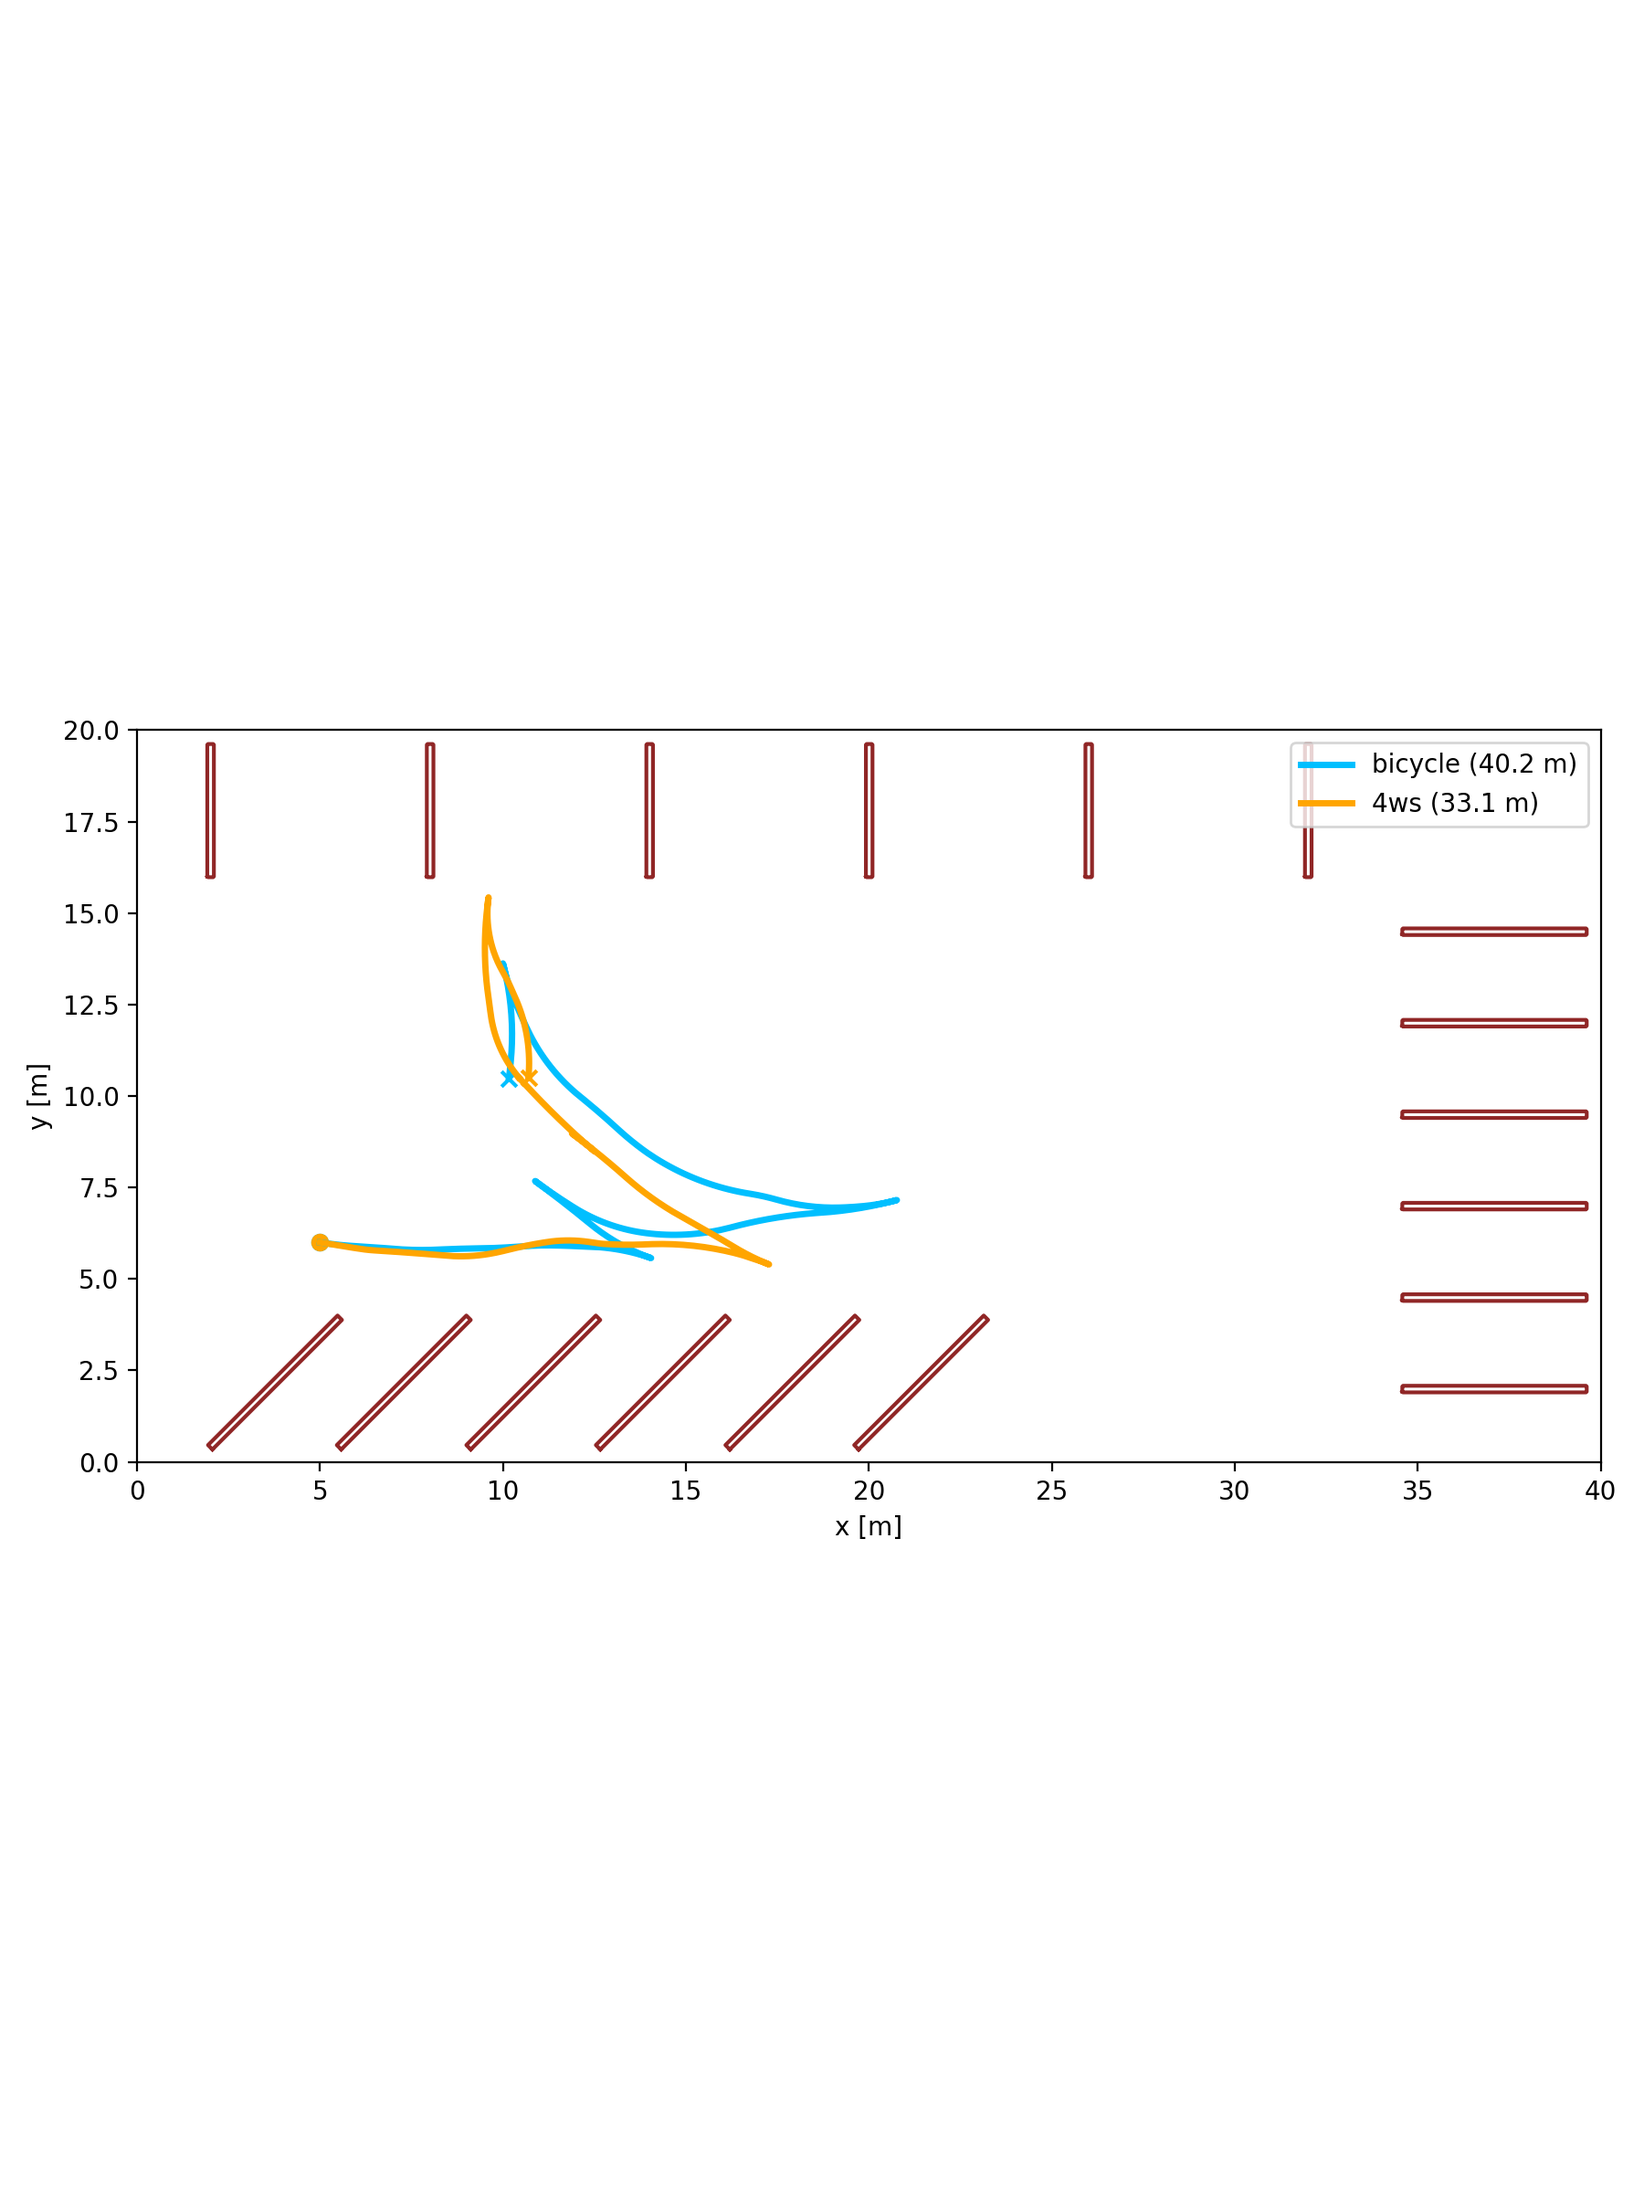
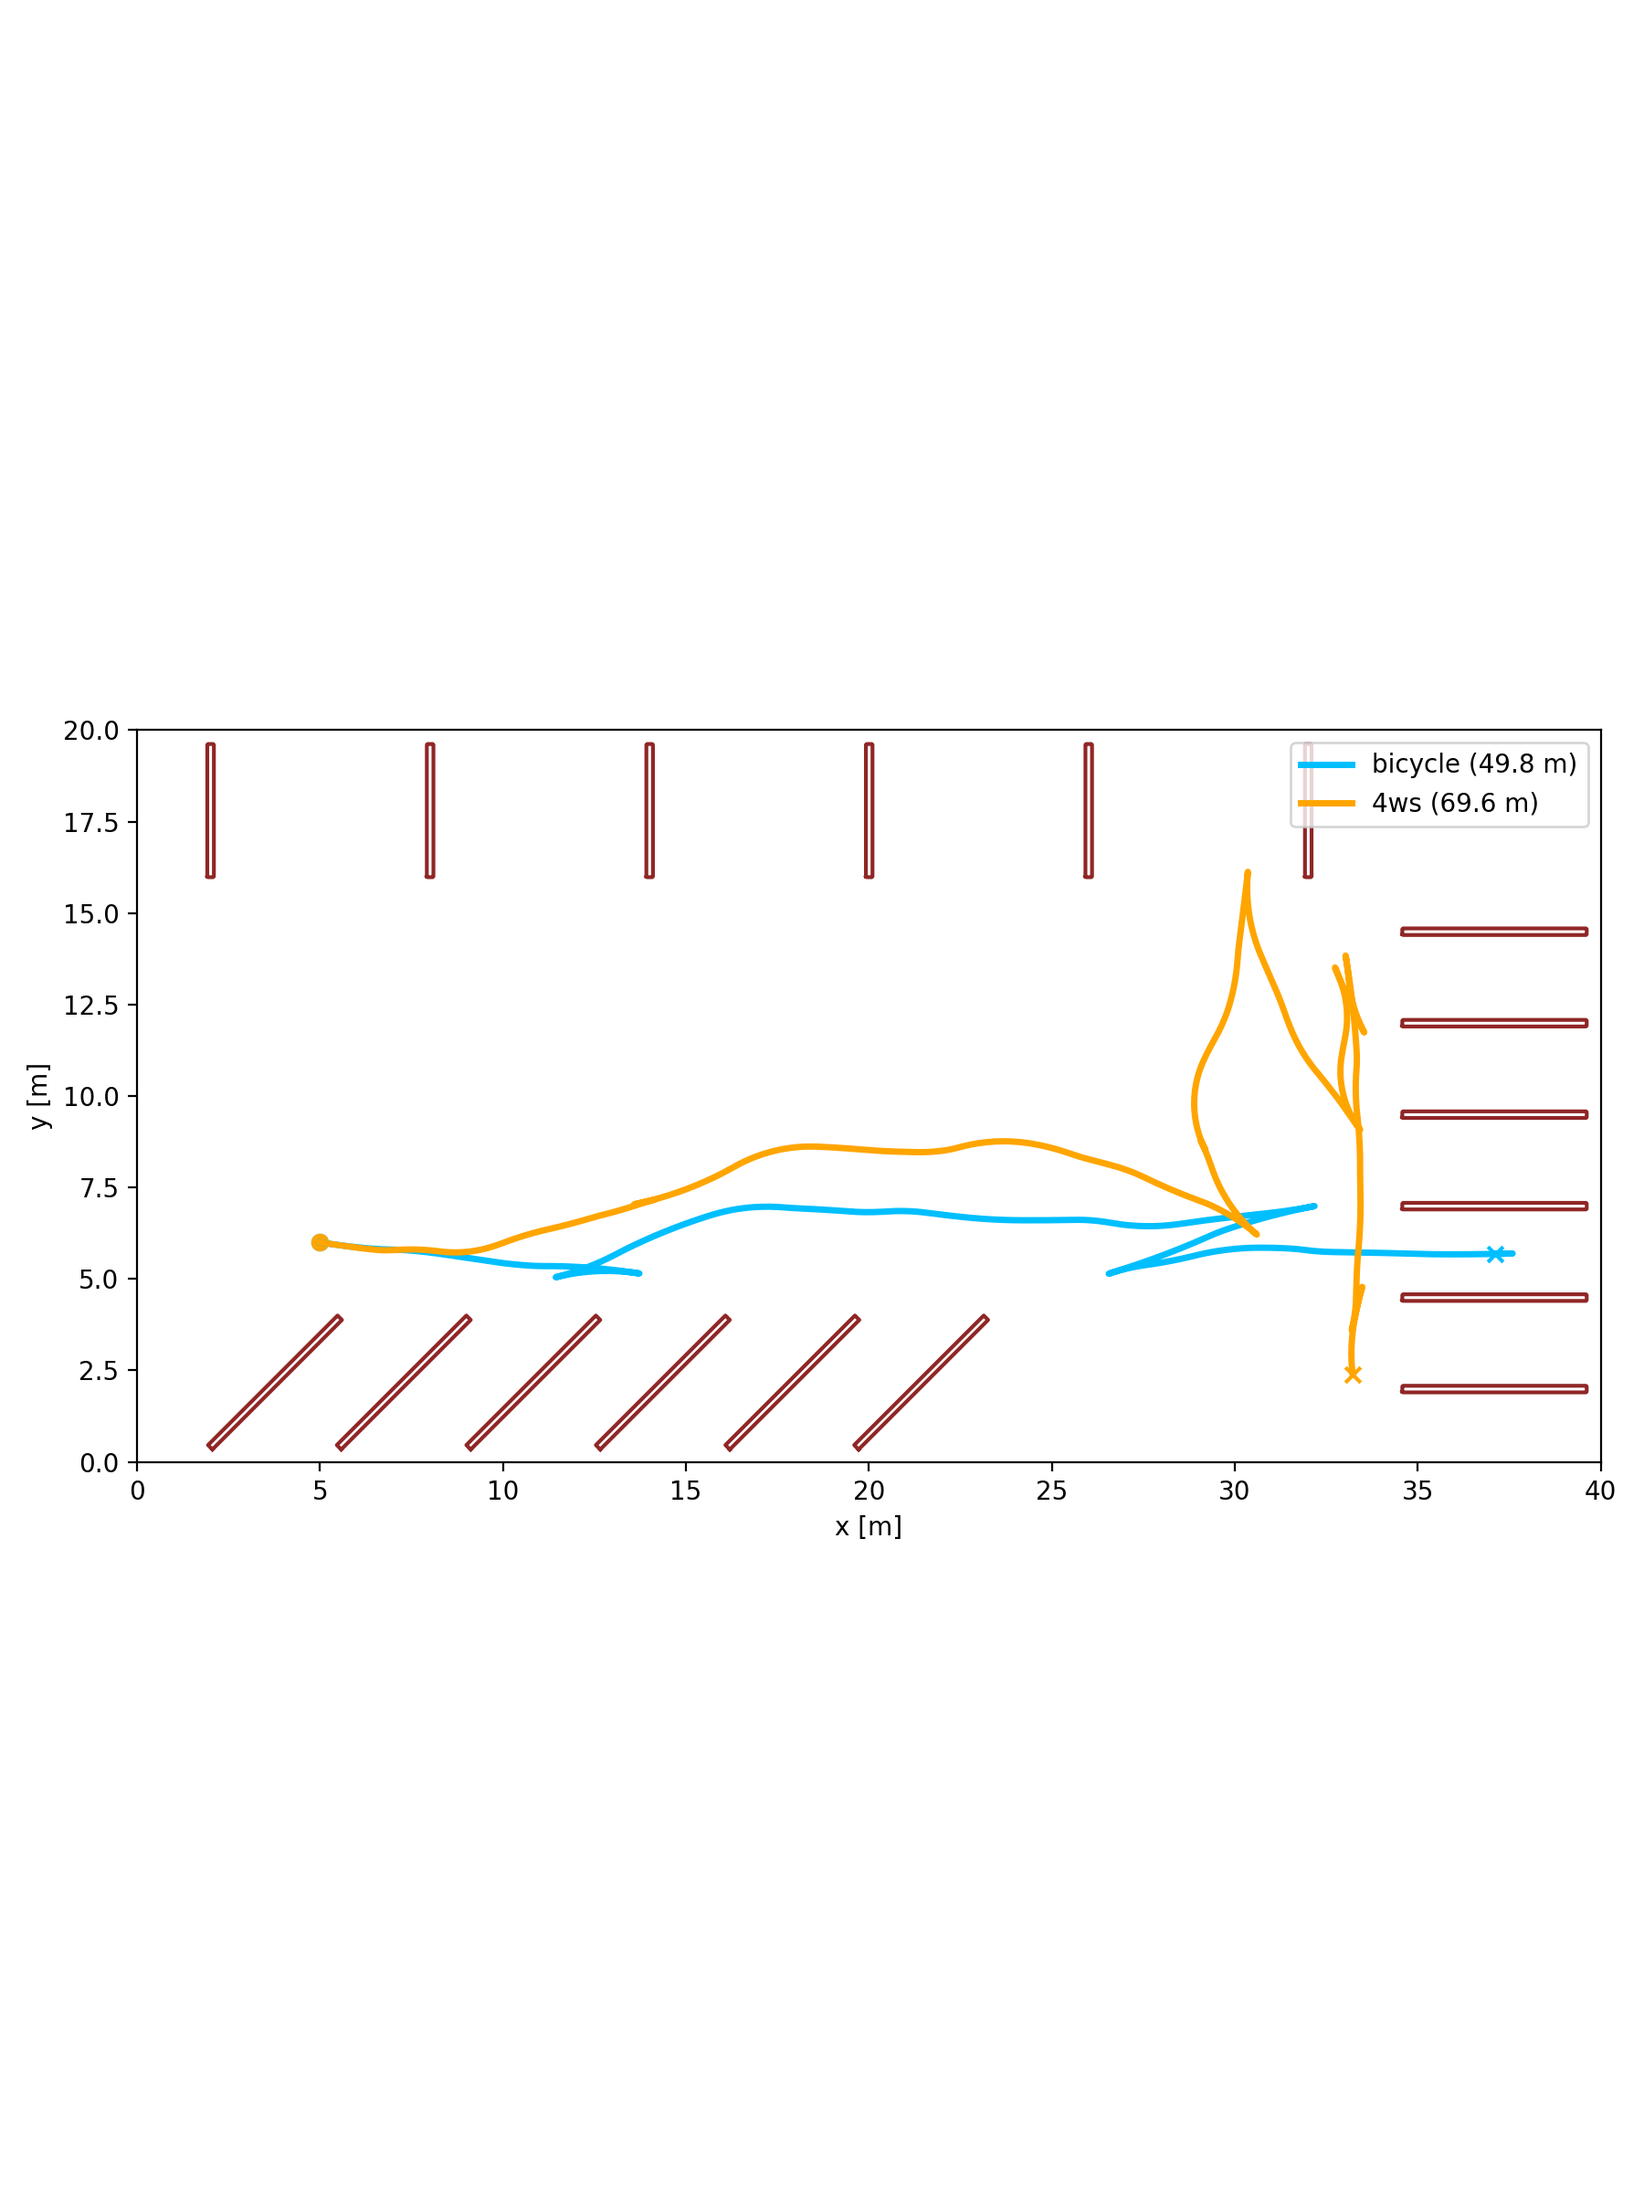
Adjusted the goal. TODO: the cars on bitmap as the obstacles, lines not necessarly. I started to work on MPC model

diff --git a/src/parking/mpc.py b/src/parking/mpc.py
@@ -1,1 +1,168 @@
 #file for mpc planner if was to be implemented
+
+import do_mpc
+import re
+import casadi as ca
+import json
+
+class MPCModel:
+    def __init__(self):
+        self.optimal_path = self.track.optimal_path
+
+
+        
+        self.width = 1.0
+        self.model = self.create_model()
+        self.model.setup()
+
+    def remove_comments(self, json_str):
+        # Remove single-line comments
+        json_str = re.sub(r'//.*', '', json_str)
+        # Remove multi-line comments
+        json_str = re.sub(r'/\*.*?\*/', '', json_str, flags=re.DOTALL)
+        return json_str
+    
+    def load_params(self, path):
+        """Load vehicle data from JSON file."""
+        with open(path, 'r') as f:
+            json_str = f.read()
+            json_str_clean = self.remove_comments(json_str)
+            data = json.loads(json_str_clean)
+            self.rotational_inertia = data["rotational_inertia"]
+            self.name = data["name"]
+            self.mass = data["mass"]
+            self.length_f = data["length_f"]
+            self.length_r = data["length_r"]
+            self.width = data["width"]
+
+            self.B_f = data["frontTire"]["B_f"]
+            self.C_f = data["frontTire"]["C_f"]
+            
+            self.B_r = data["rearTire"]["B_r"]
+            self.C_r = data["rearTire"]["C_r"]
+
+            self.C_m = data["control"]["C_m"]
+            self.Cr_0 = data["Cr_0"]
+            self.Cr_2 = data["Cr_2"]
+            self.ptv = data["ptv"]
+
+    def k(self, s):
+        return self.optimal_path.find_curvature_at_s(s)
+
+    
+    def get_lateral_constraint(self, s, n, mu):
+        length = self.length_f + self.length_r
+        width = self.width
+
+        NL = self.track.find_dist_to_band_symb(s, "left")
+        NR = self.track.find_dist_to_band_symb(s, "right")
+        
+        left_constraint = n - length * 0.5 * ca.sin(ca.sign(mu) * mu) + width * 0.5 * ca.cos(mu) - NL
+        right_constraint = - n + length * 0.5 * ca.sin(ca.sign(mu) * mu) + width * 0.5 * ca.cos(mu) - NR
+
+        # TODO what are these for?
+        # left_constraint_trunc = ca.if_else(left_constraint > NL, left_constraint - NL, 0.0)
+        # right_constraint_trunc = ca.if_else(right_constraint > NR, right_constraint - NR, 0.0)
+
+        return left_constraint, right_constraint
+
+    def get_traction_ellipse_constraint(self, throttle, vx, vy, r, steering_angle, rho=1.0, alpha=1.0):
+        long = rho * 0.5 * self.get_motor_force(throttle)
+        af, ar = self.get_slip_angles(vx, vy, r, steering_angle)
+        Fy_f, Fy_r = self.get_lateral_forces(af, ar)
+        Df = alpha * self.D_f
+        Dr = alpha * self.D_r
+        ellipse_f = long*long + Fy_f*Fy_f - Df*Df
+        ellipse_r = long*long + Fy_r*Fy_r - Dr*Dr
+
+        # TODO what are these for?
+        # ellipse_f_trunc = ca.if_else(ellipse_f > 0.0, ellipse_f, 0.0)
+        # ellipse_r_trunc = ca.if_else(ellipse_r > 0.0, ellipse_r, 0.0)
+
+        return ellipse_f, ellipse_r
+
+    def get_slip_angles(self, vx, vy, r, steering_angle):
+        alpha_f = ca.atan2((vy + self.length_f*r),vx) - steering_angle
+        alpha_r = ca.atan2((vy - self.length_r*r),vx)
+        return alpha_f, alpha_r
+
+    def get_lateral_forces(self, alpha_f, alpha_r):
+        Fn_f = self.length_r * self.mass * self.g / (self.length_f + self.length_r)
+        Fn_r = self.length_f * self.mass * self.g / (self.length_f + self.length_r)
+
+        # Fy_f = Fn_f * self.D_f * ca.sin(self.C_f * ca.atan(self.B_f * alpha_f))
+        # Fy_r = Fn_r * self.D_r * ca.sin(self.C_r * ca.atan(self.B_r * alpha_r))
+        Fy_f = -Fn_f * self.D_f * ca.sin(self.C_f * ca.atan(self.B_f * alpha_f))
+        Fy_r = -Fn_r * self.D_r * ca.sin(self.C_r * ca.atan(self.B_r * alpha_r))
+        return Fy_f, Fy_r
+    
+    def get_motor_force(self, throttle):
+        return self.C_m * throttle
+
+    def sdot(self):
+        x = self.model.x
+        sdot = (x['vx']*ca.cos(x['mu']) - x['vy']*ca.sin(x['mu'])) / (1 - x['n'] * self.k(x['s']))
+        return sdot
+
+    def B(self, q_B):
+        x = self.model.x
+        b_dyn = ca.atan(x['vy']/x['vx'])
+        b_kin = ca.atan(x['steering_angle']*self.length_r / (self.length_f + self.length_r))
+        return q_B * (b_dyn - b_kin)**2
+
+    def create_model(self) -> do_mpc.model.Model:
+        """
+        Setups all variables, inputs, parameters of an MPC model.
+        """
+
+        model_type = 'continuous'
+        model = do_mpc.model.Model(model_type, 'MX')
+
+        s = model.set_variable("_x", 's', shape=(1,1))
+        n = model.set_variable("_x", 'n', shape=(1,1))
+        mu = model.set_variable("_x", 'mu', shape=(1,1))
+
+        vx = model.set_variable('_x', 'vx', shape=(1,1))
+        vy = model.set_variable('_x', 'vy', shape=(1,1))
+        r = model.set_variable('_x', 'r', shape=(1,1))
+
+        steering_angle = model.set_variable('_x', 'steering_angle', shape=(1,1))
+        throttle = model.set_variable('_x', 'throttle', shape=(1,1))
+
+        steering_angle_change = model.set_variable('_u', 'steering_angle_change', shape=(1,1))
+        throttle_change = model.set_variable('_u', 'throttle_change', shape=(1,1))
+
+        sdot = (vx*ca.cos(mu) - vy*ca.sin(mu)) / (1 - n * self.k(s))
+        
+        # Tires
+
+        alpha_f, alpha_r = self.get_slip_angles(vx, vy, r, steering_angle)
+
+        Fy_f, Fy_r = self.get_lateral_forces(alpha_f, alpha_r)
+        
+        Fx =  self.get_motor_force(throttle) - self.Cr_0 - self.Cr_2 * vx * vx
+
+        rt = (ca.tan(steering_angle)*vx)/(self.length_f + self.length_r)
+        #Mtv = self.ptv * (rt - r)
+        Mtv = 0.0
+
+        model.set_rhs('s', sdot)
+        model.set_rhs('n', 
+            vx*ca.sin(mu) + vy*ca.cos(mu)
+        )
+        model.set_rhs('mu',
+            r - self.k(s)*sdot                    
+        )
+        model.set_rhs('vx',
+            (1.0 / self.mass) * (Fx - Fy_f * ca.sin(steering_angle) + self.mass * vy * r)
+        )
+        model.set_rhs('vy', 
+            (1.0 / self.mass) * (Fy_r + Fy_f * ca.cos(steering_angle) - self.mass * vx * r)
+        )
+        model.set_rhs('r',
+            (1.0 / self.rotational_inertia) * (Fy_f * self.length_f * ca.cos(steering_angle) - Fy_r * self.length_r + Mtv)
+        )
+        model.set_rhs('throttle', throttle_change)
+        model.set_rhs('steering_angle', steering_angle_change)
+        
+        return model

diff --git a/src/parking/OMPL.py b/src/parking/OMPL.py
@@ -20,11 +20,11 @@ class OMPL:
         bounds.setLow(1, self.plot_bounds[2])
         bounds.setHigh(1, self.plot_bounds[3])
         space.setBounds(bounds)
-        print("Bounds object:", bounds)
-        print("Space bounds:", space.getBounds())
         width = bounds.high[0] - bounds.low[0]
         height = bounds.high[1] - bounds.low[1]
-        print(f"Width: {width}, Height: {height}")
+        # print("Bounds object:", bounds)
+        # print("Space bounds:", space.getBounds())
+        # print(f"Width: {width}, Height: {height}")
         return space
 
     def bicycle_ode(self,q, u, qdot):
@@ -106,12 +106,12 @@ class OMPL:
 
         # goal_cx = - (self.parking_lot.N_SPOTS / 2 - 0.5 - self.parking_lot.GOAL_COL) * self.parking_lot.SLOT_W
         # goal_cy = self.parking_lot.ROWS_Y[self.parking_lot.GOAL_ROW]
-        goal_cx = 10.5
-        goal_cy = 10.5
+        goal_cx = 37
+        goal_cy = 2.5
         goal = ob.State(space)
         goal().setX(goal_cx)
         goal().setY(goal_cy)
-        goal().setYaw(math.pi / 2)
+        goal().setYaw(math.pi)
 
         ss.setStartAndGoalStates(start, goal, 0.25)
         ss.getProblemDefinition().setOptimizationObjective(ob.PathLengthOptimizationObjective(si))

diff --git a/src/parking_main.py b/src/parking_main.py
@@ -27,7 +27,7 @@ def main():
 
     plot = Plot(parking_lot_bitmap, results, plot_bounds, colours, car)
     plot.static_plot(os.path.join(os.getcwd(), "src/parking/parking_paths.png"))
-    # plot.animate(os.path.join(os.getcwd(), "src/parking/parking_animation.gif"))
+    plot.animate(os.path.join(os.getcwd(), "src/parking/parking_animation.gif"))
 
 
 if __name__ == "__main__":

diff --git a/src/parking/plot.py b/src/parking/plot.py
@@ -53,7 +53,7 @@ class Plot:
         #     axA.plot(x, y, color="#bbbbbb", linewidth=1)
         for pc in self.parking_lot.obstacles:
             x, y = pc.exterior.xy
-            axA.fill(x, y, color="#555555")
+            axA.plot(x, y, color="#555555")
 
         car_patch = patches.Rectangle(
             (-self.car.CAR_LEN/2, -self.car.CAR_WID/2),
